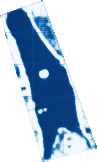
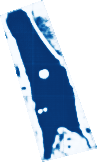
New Changes

diff --git a/app.py b/app.py
@@ -177,7 +177,7 @@ if current_tif and os.path.exists(current_tif):
 
             st.markdown("### 5. Delineated Water Extent (Binary Mask)")
             fig_bin, ax_bin = plt.subplots(figsize=(6, 4.5))
-            ax_bin.imshow(np.ma.array(binary_water, mask=~np.isfinite(arr)), cmap=cmap_water_binary, vmin=0, vmax=1)
+            ax_bin.imshow(np.ma.array(binary_water, mask=~np.isfinite(arr)), cmap=cmap_water_binary, vmin=0, vmax=1, interpolation='nearest', resample=False)
             patches_bin = [
                 mpatches.Patch(facecolor='#35A66B', edgecolor='#238653', label=f'Land ({total_valid - water_pixels:,} px)'),
                 mpatches.Patch(facecolor='#2478C9', edgecolor='#185D9E', label=f'Water ({water_pixels:,} px)'),
@@ -189,7 +189,7 @@ if current_tif and os.path.exists(current_tif):
         with col2:
             st.markdown("### 3. Relative 3D Depth Map")
             fig3, ax3 = plt.subplots(figsize=(6, 4.5))
-            im3 = ax3.imshow(np.ma.array(depth_map, mask=~np.isfinite(arr)), cmap=cmap_depth_4class, vmin=0, vmax=3)
+            im3 = ax3.imshow(np.ma.array(depth_map, mask=~np.isfinite(arr)), cmap=cmap_depth_4class, vmin=0, vmax=3, interpolation='nearest', resample=False)
             ax3.set_title("Depth Classes (0:Land, 1:Shallow, 2:Mod, 3:Deep)")
             fig3.colorbar(im3, ax=ax3, label='Depth Class')
             st.pyplot(fig3)
@@ -337,17 +337,17 @@ if current_tif and os.path.exists(current_tif):
                     else:
                         mcol2.metric("Predicted Water Area", "CRS area unavailable")
                     mcol3.metric("Valid Scene Pixels", f'{result["valid_pixels"]:,}')
-                fig, axes = plt.subplots(1, 3, figsize=(15, 4.8), dpi=150)
+                fig, axes = plt.subplots(1, 3, figsize=(16, 5.2), dpi=200)
                 
                 pred_valid_mask = result.get("valid_mask")
                 if pred_valid_mask is None:
                     pred_valid_mask = np.isfinite(result["water_probability"])
 
-                # 1. Predicted Water Probability
+                # 1. Predicted Water Probability (Crisp nearest-neighbor pixel rendering)
                 probability_cmap = plt.get_cmap("Blues").copy()
                 probability_cmap.set_bad("#D9DEE7")
                 prob_display = np.ma.array(result["water_probability"], mask=~pred_valid_mask)
-                im0 = axes[0].imshow(prob_display, cmap=probability_cmap, vmin=0.0, vmax=1.0)
+                im0 = axes[0].imshow(prob_display, cmap=probability_cmap, vmin=0.0, vmax=1.0, interpolation='nearest', resample=False)
                 prob_data = np.nan_to_num(result["water_probability"], nan=0.0)
                 if np.any(prob_data >= 0.5):
                     axes[0].contour(prob_data, levels=[0.5], colors=['#dc2626'], linewidths=1.6, linestyles='--')
@@ -359,9 +359,9 @@ if current_tif and os.path.exists(current_tif):
                 cb0.set_ticklabels(['0%', '25%', '50%', '75%', '100%'])
                 cb0.ax.tick_params(labelsize=8)
 
-                # 2. Predicted Water Extent
+                # 2. Predicted Water Extent (Crisp nearest-neighbor pixel rendering)
                 pred_water_binary = (result["water_probability"] >= 0.5).astype(np.uint8)
-                axes[1].imshow(np.ma.array(pred_water_binary, mask=~pred_valid_mask), cmap=cmap_water_binary, vmin=0, vmax=1)
+                axes[1].imshow(np.ma.array(pred_water_binary, mask=~pred_valid_mask), cmap=cmap_water_binary, vmin=0, vmax=1, interpolation='nearest', resample=False)
                 patches_pred_binary = [
                     mpatches.Patch(facecolor='#35A66B', edgecolor='#238653', label=f'Land ({result["valid_pixels"] - result["water_pixels"]:,} px)'),
                     mpatches.Patch(facecolor='#2478C9', edgecolor='#185D9E', label=f'Predicted Water ({result["water_pixels"]:,} px)'),
@@ -369,8 +369,8 @@ if current_tif and os.path.exists(current_tif):
                 axes[1].legend(handles=patches_pred_binary, loc='lower right', framealpha=0.92, fontsize=7.5)
                 axes[1].set_title("2. Delineated Water Extent", fontsize=10, fontweight='bold', pad=8)
 
-                # 3. Predicted Relative Classes
-                axes[2].imshow(np.ma.array(result["relative_classes"], mask=~pred_valid_mask), cmap=cmap_depth_4class, vmin=0, vmax=3)
+                # 3. Predicted Relative Classes (Crisp nearest-neighbor pixel rendering)
+                axes[2].imshow(np.ma.array(result["relative_classes"], mask=~pred_valid_mask), cmap=cmap_depth_4class, vmin=0, vmax=3, interpolation='nearest', resample=False)
                 patches_pred_classes = [
                     mpatches.Patch(facecolor='#35A66B', edgecolor='#238653', label='0: Land / Non-Water'),
                     mpatches.Patch(facecolor='#F2C14E', edgecolor='#C89D32', label='1: Shallow Water'),
@@ -758,7 +758,7 @@ if current_tif and os.path.exists(current_tif):
 
                     st.markdown("#### 4. Relative Spectral Classification (Proxy Ranks)")
                     fig_d, ax_d = plt.subplots(figsize=(6, 4.5), dpi=140)
-                    ax_d.imshow(np.ma.array(res['depth_map'], mask=~res['valid_mask']), cmap=cmap_depth_4class, vmin=0, vmax=3)
+                    ax_d.imshow(np.ma.array(res['depth_map'], mask=~res['valid_mask']), cmap=cmap_depth_4class, vmin=0, vmax=3, interpolation='nearest', resample=False)
                     ax_d.set_title("Relative Spectral Classes (Not Bathymetry)", fontsize=10, fontweight='bold', pad=8)
                     patches_d = [
                         mpatches.Patch(facecolor='#35A66B', edgecolor='#238653', label='0: Land / Non-Water'),

diff --git a/src/predictor.py b/src/predictor.py
@@ -87,34 +87,61 @@ def _save_prediction_previews(water_probability, predicted_water, predicted_clas
 
 
 def resolve_model_artifacts(model_dir="knowledge_base"):
-    """Return the approved active model, or latest versioned candidate for preview."""
+    """Return the approved active model, or best/latest versioned candidate for preview."""
     active_model = os.path.join(model_dir, "ndwi_multitask_unet.keras")
     active_report = os.path.join(model_dir, "multitask_training_report.json")
+    active_eligible = False
+    active_macro_f1 = -1.0
+    active_val_loss = float("inf")
+
     if os.path.isfile(active_model) and os.path.isfile(active_report):
-        return active_model, active_report, "active_model"
+        try:
+            with open(active_report, encoding="utf-8") as stream:
+                metadata = json.load(stream)
+            active_eligible = bool(metadata.get("deployment_eligible", False))
+            active_macro_f1 = float(metadata.get("water_validation_metrics", {}).get("macro_f1", -1.0) or -1.0)
+            active_val_loss = float(metadata.get("best_validation_loss", float("inf")) or float("inf"))
+            if active_eligible:
+                return active_model, active_report, "active_model"
+        except (OSError, ValueError, KeyError):
+            pass
+
+    # Search versioned candidates
+    candidate_list = []
     summaries = sorted(glob.glob(os.path.join(model_dir, "runs", "*", "run_summary.json")), reverse=True)
     for summary_path in summaries:
         try:
             with open(summary_path, encoding="utf-8") as stream:
                 summary = json.load(stream)
-            selected = summary.get("selected_candidate")
             candidates = summary.get("candidates", [])
-            candidate = next((item for item in candidates if item.get("mode") == selected), None)
-            if candidate is None and candidates:
-                candidate = min(candidates, key=lambda item: item.get("validation_loss", float("inf")))
-            if not candidate:
-                continue
-            model_path, report_path = candidate.get("model_path"), candidate.get("report_path")
-            if not model_path or not report_path:
-                continue
-            if not os.path.isabs(model_path):
-                model_path = os.path.normpath(os.path.join(os.path.dirname(os.path.abspath(model_dir)), model_path))
-            if not os.path.isabs(report_path):
-                report_path = os.path.normpath(os.path.join(os.path.dirname(os.path.abspath(model_dir)), report_path))
-            if os.path.isfile(model_path) and os.path.isfile(report_path):
-                return model_path, report_path, "versioned_candidate_preview"
+            for candidate in candidates:
+                m_path, r_path = candidate.get("model_path"), candidate.get("report_path")
+                if not m_path or not r_path:
+                    continue
+                if not os.path.isabs(m_path):
+                    m_path = os.path.normpath(os.path.join(os.path.dirname(os.path.abspath(model_dir)), m_path))
+                if not os.path.isabs(r_path):
+                    r_path = os.path.normpath(os.path.join(os.path.dirname(os.path.abspath(model_dir)), r_path))
+                if os.path.isfile(m_path) and os.path.isfile(r_path):
+                    with open(r_path, encoding="utf-8") as rf:
+                        rep = json.load(rf)
+                    cand_eligible = bool(rep.get("deployment_eligible", False))
+                    cand_f1 = float(rep.get("water_validation_metrics", {}).get("macro_f1", 0.0) or 0.0)
+                    cand_loss = float(rep.get("best_validation_loss", float("inf")) or float("inf"))
+                    candidate_list.append((cand_eligible, cand_f1, -cand_loss, m_path, r_path))
         except (OSError, ValueError, KeyError, TypeError):
             continue
+
+    if candidate_list:
+        # Sort by: deployment_eligible (True first), water macro F1 (highest first), lowest loss
+        candidate_list.sort(key=lambda x: (x[0], x[1], x[2]), reverse=True)
+        best_cand = candidate_list[0]
+        # If candidate is eligible or beats the active model, prefer it
+        if best_cand[0] or best_cand[1] > active_macro_f1 or not os.path.isfile(active_model):
+            return best_cand[3], best_cand[4], "versioned_candidate_preview"
+
+    if os.path.isfile(active_model) and os.path.isfile(active_report):
+        return active_model, active_report, "active_model"
     return active_model, active_report, "missing"
 
 
